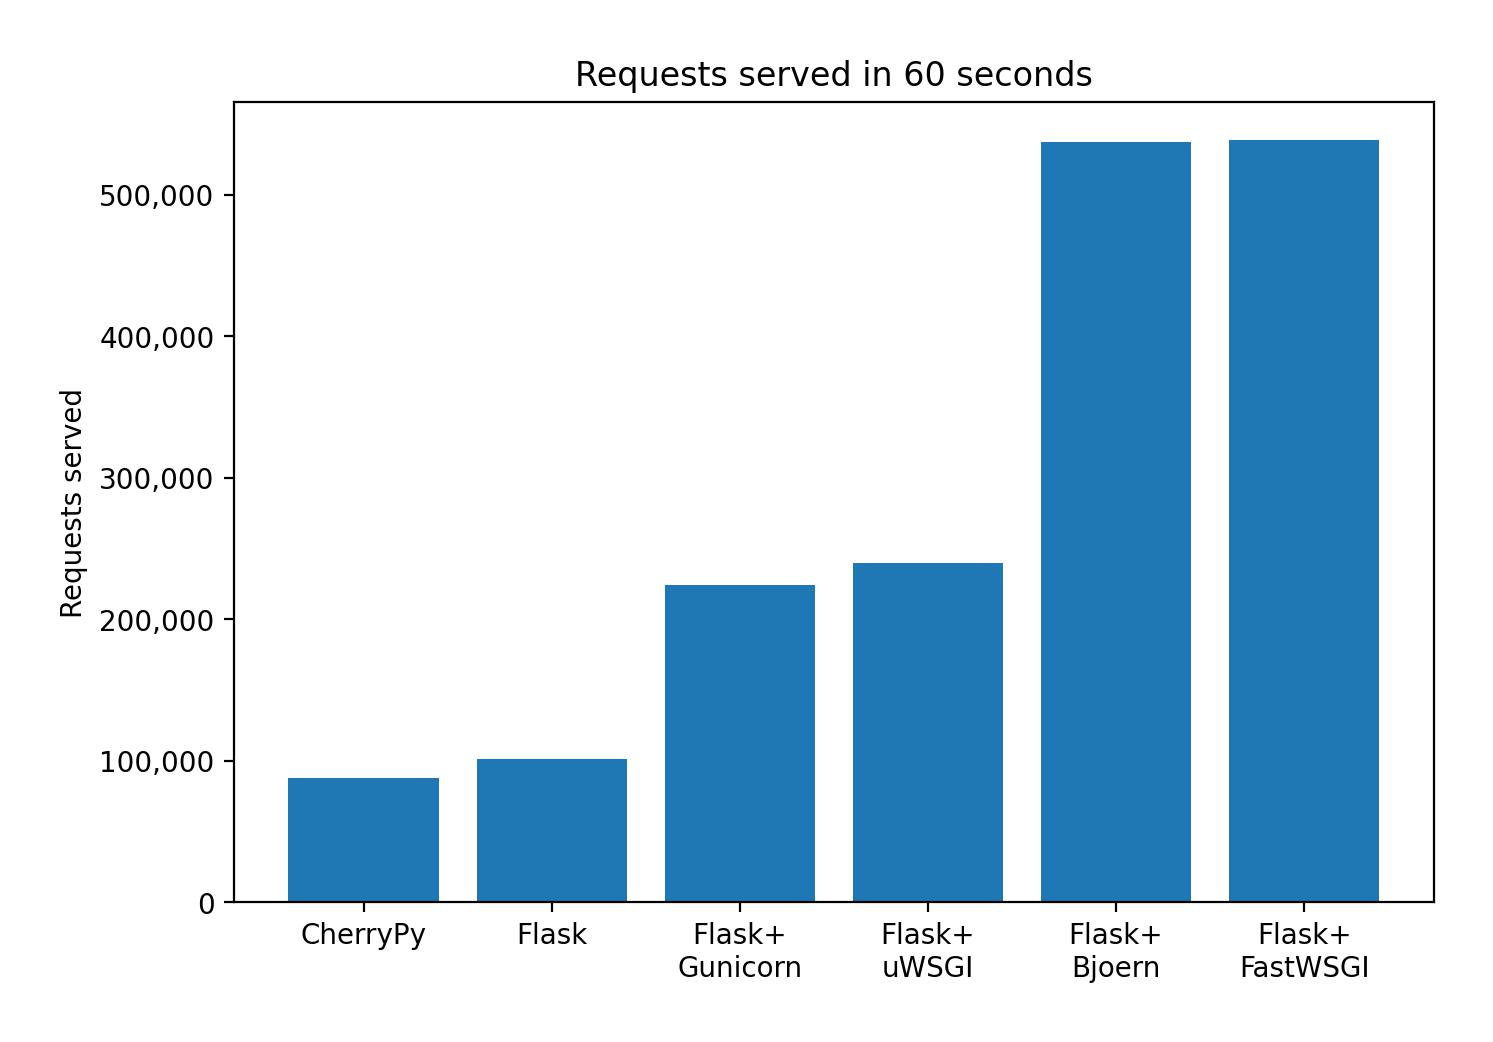
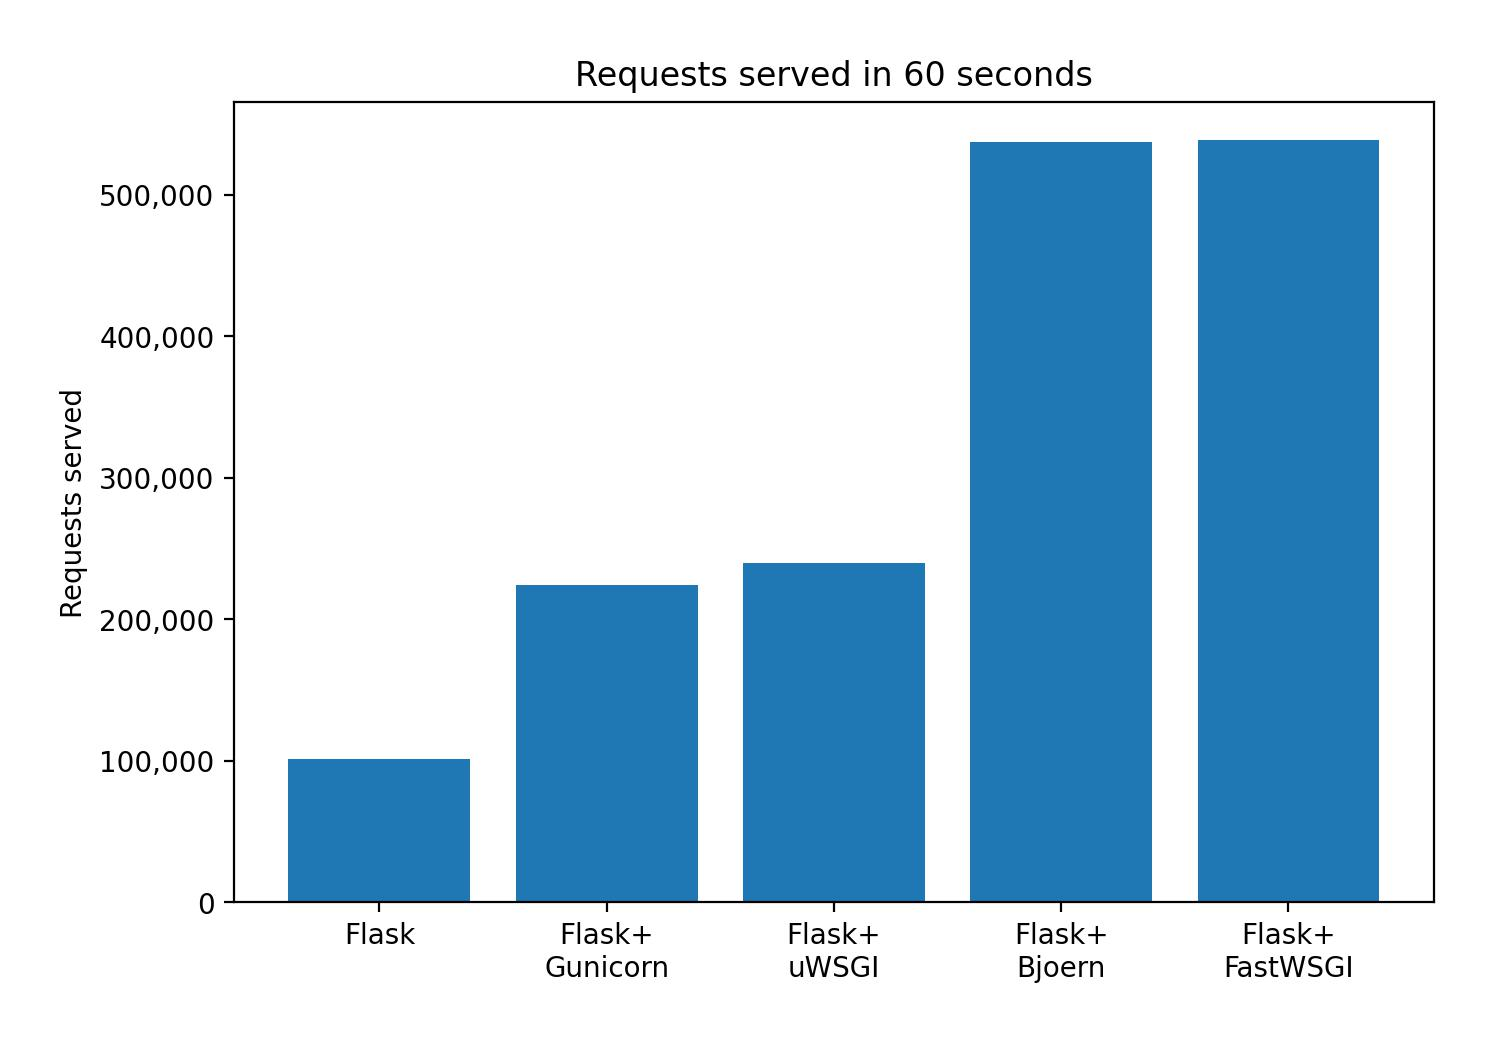
feat: remove CherryPy benchmark and reuse application from gunicorn

diff --git a/performance_benchmarks/servers/cheroot_wsgi.py b/performance_benchmarks/servers/cheroot_wsgi.py
@@ -3,15 +3,7 @@ Adapted from https://github.com/cherrypy/cheroot/blob/master/cheroot/test/test_w
 """
 
 from cheroot import wsgi
+from gunicorn_wsgi import application
 
-def simple_wsgi_server():
-    def app(_environ, start_response):
-        status = '200 OK'
-        response_headers = [('Content-type', 'text/plain')]
-        start_response(status, response_headers)
-        return [b'Hello world!']
-    server = wsgi.Server(("localhost", 8080), app, timeout=100)
-    return server
-
-server = simple_wsgi_server()
+server = wsgi.Server(bind_addr=("localhost", 8080), wsgi_app=application)
 server.start()

diff --git a/performance_benchmarks/generate_figures.py b/performance_benchmarks/generate_figures.py
@@ -48,7 +48,6 @@ def extract_data(req_ps, req_served, benchmarks):
 
 
 flask_benchmarks = {
-    "CherryPy": "results/cherrypy_results.txt",
     "Flask": "results/basic_flask_results.txt",
     "Flask+\nGunicorn": "results/gunicorn_flask_results.txt",
     "Flask+\nuWSGI": "results/uwsgi_flask_results.txt",
